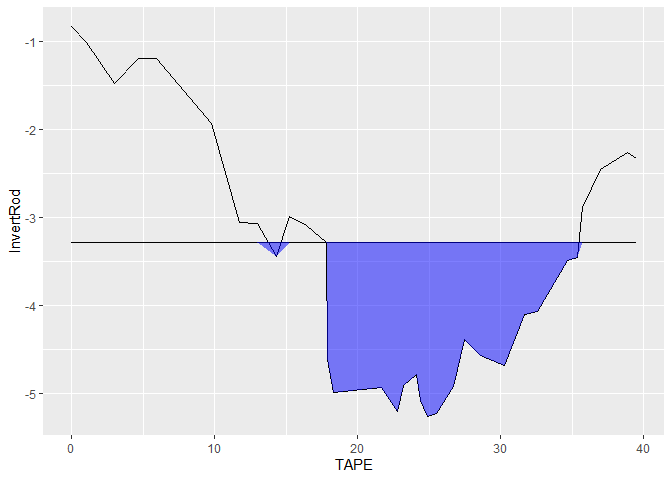
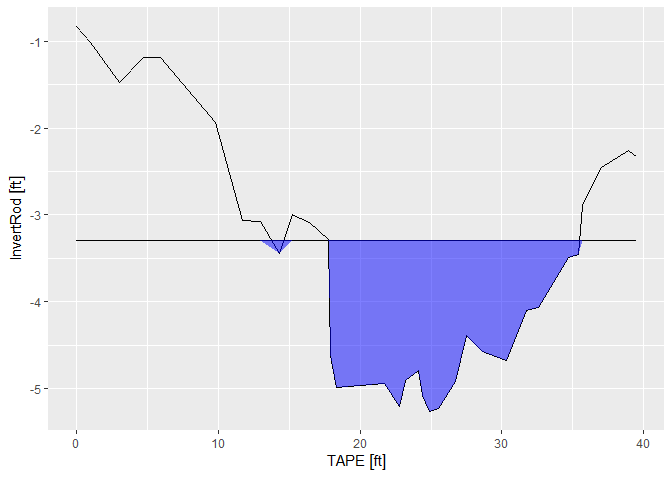
Update README

diff --git a/README.md b/README.md
@@ -28,34 +28,52 @@ the `pracma` package.
 
 ``` r
 library(excess)
+library(units)
+#> udunits database from C:/Users/brownhr/AppData/Local/R/cache/R/renv/cache/v5/R-4.2/x86_64-w64-mingw32/units/0.8-0/6c374b265ba437f8d384ec7a313edd96/units/share/udunits/udunits2.xml
+library(dplyr)
+#> 
+#> Attaching package: 'dplyr'
+#> The following objects are masked from 'package:stats':
+#> 
+#>     filter, lag
+#> The following objects are masked from 'package:base':
+#> 
+#>     intersect, setdiff, setequal, union
 
-head(testdata)
-#> # A tibble: 6 x 3
-#>    TAPE InvertRod Bankful
-#>   <dbl>     <dbl>   <dbl>
-#> 1  0        -0.83   -3.29
-#> 2  1        -1.01   -3.29
-#> 3  3        -1.48   -3.29
-#> 4  4.7      -1.19   -3.29
-#> 5  5.95     -1.19   -3.29
-#> 6  9.8      -1.93   -3.29
+head(testxs)
+#> # A tibble: 6 × 3
+#>   TAPE InvertRod Bankful
+#>   [ft]      [ft]    [ft]
+#> 1 0        -0.83   -3.29
+#> 2 1        -1.01   -3.29
+#> 3 3        -1.48   -3.29
+#> 4 4.7      -1.19   -3.29
+#> 5 5.95     -1.19   -3.29
+#> 6 9.8      -1.93   -3.29
 ```
 
 ``` r
 ## If you can't find the `testdata` object, load it with data()
 
-data(testdata)
+data(testxs)
 ```
 
 ``` r
-xs_area(testdata)
-#> [1] 23.4665
+testxs %>% 
+  xs_area(tape = TAPE,
+          depth = InvertRod,
+          baseline = Bankful,
+          sum_area = T)
+#> -23.4665 [ft^2]
 ```
 
 You can visualize cross-sections with `xs_ribbon()`
 
 ``` r
-xs_ribbon(testdata)
+xs_ribbon(testxs)
 ```
 
 <img src="man/figures/README-xs-ribbon-1.png" width="100%" />
+
+For more information, check out the vignettes by navigating to
+<https://brownhr.github.io/excess>
